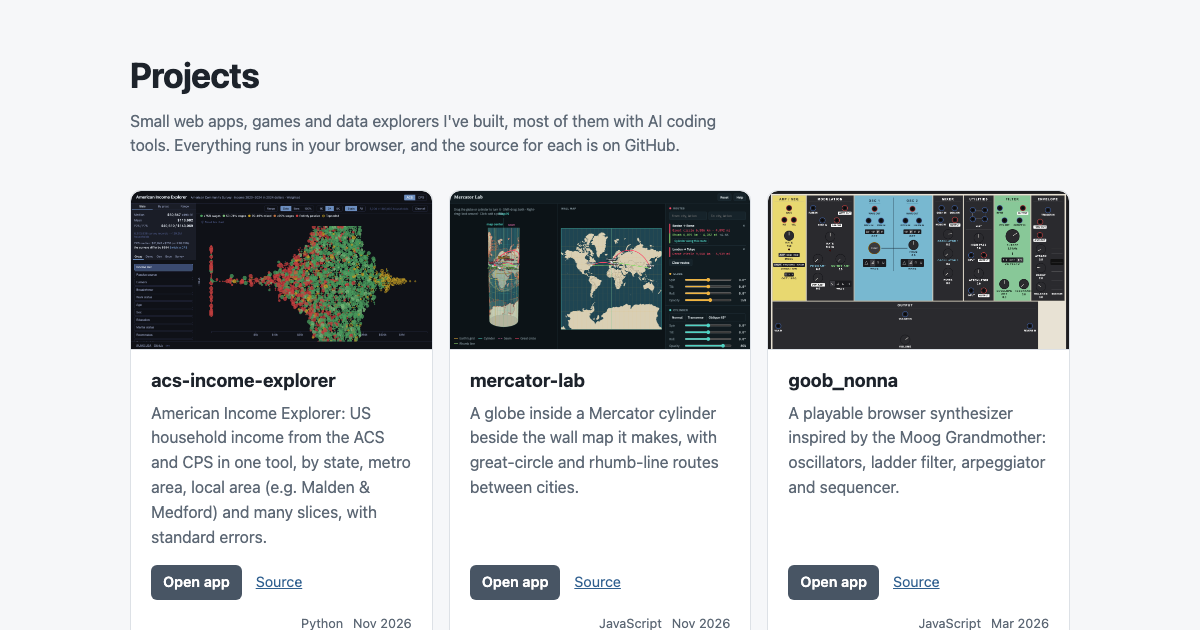
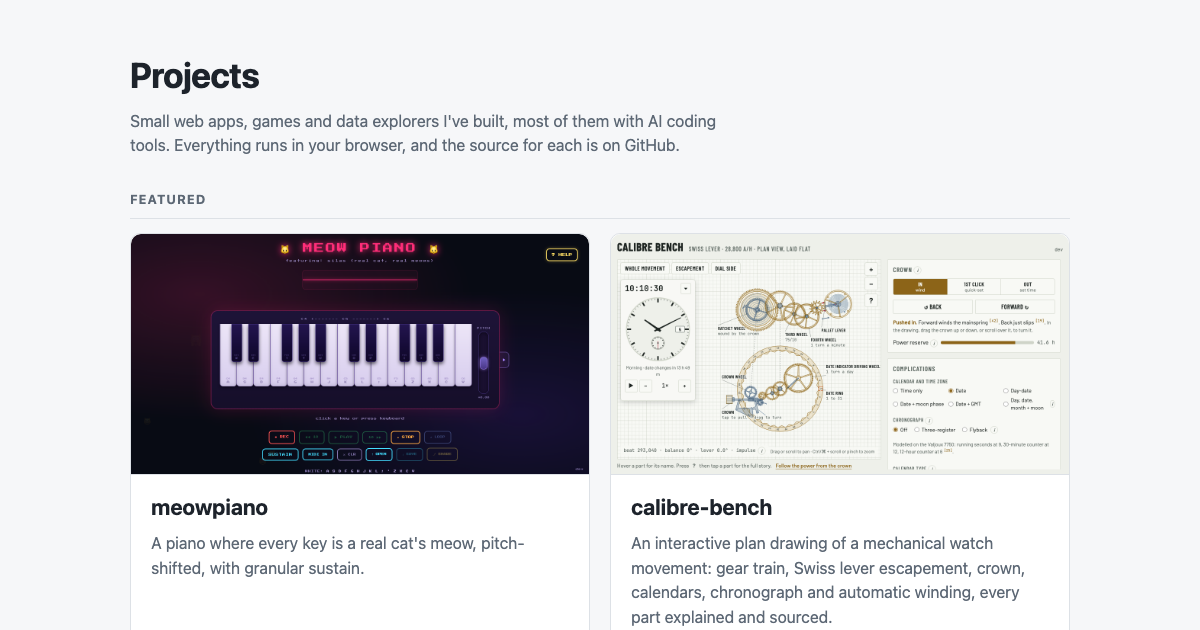
Projects link preview shows the tiers; README: how tiers work

Changed region(s): [[0.0925, 0.3016, 0.8942, 1.0], [0.2467, 0.9651, 0.3392, 1.0]]

diff --git a/README.md b/README.md
@@ -30,6 +30,15 @@ To list an app on the projects page, give its repo:
 2. a homepage URL (the live app), and
 3. the `corey-app` topic.
 
+The page groups apps in three tiers, set by a second topic:
+- `corey-app-featured`: **Featured**, polished and worth a visitor's time. Their order is `FEATURED_ORDER` in
+  `scripts/build_projects.py`.
+- no second topic: **More**, finished and working, whatever the size; newest first.
+- `corey-app-wip`: **In progress**, works but rough or not checked over yet; newest first, with a tag.
+
+Moving an app between tiers is one command, e.g. `gh repo edit csciuto/rent-gap --remove-topic corey-app-wip`,
+then rebuild.
+
 The **Deploy site** workflow rebuilds the projects page on every push and once a day.
 Run it manually from the Actions tab (or `gh workflow run deploy.yml`) to update it immediately.
 
